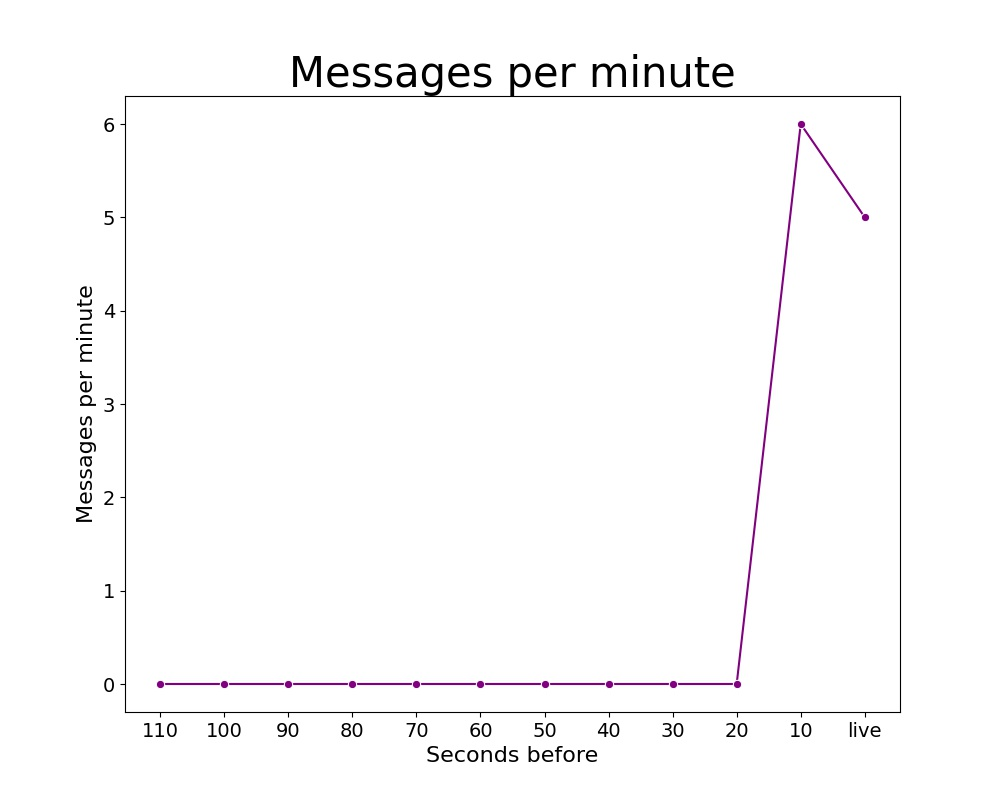
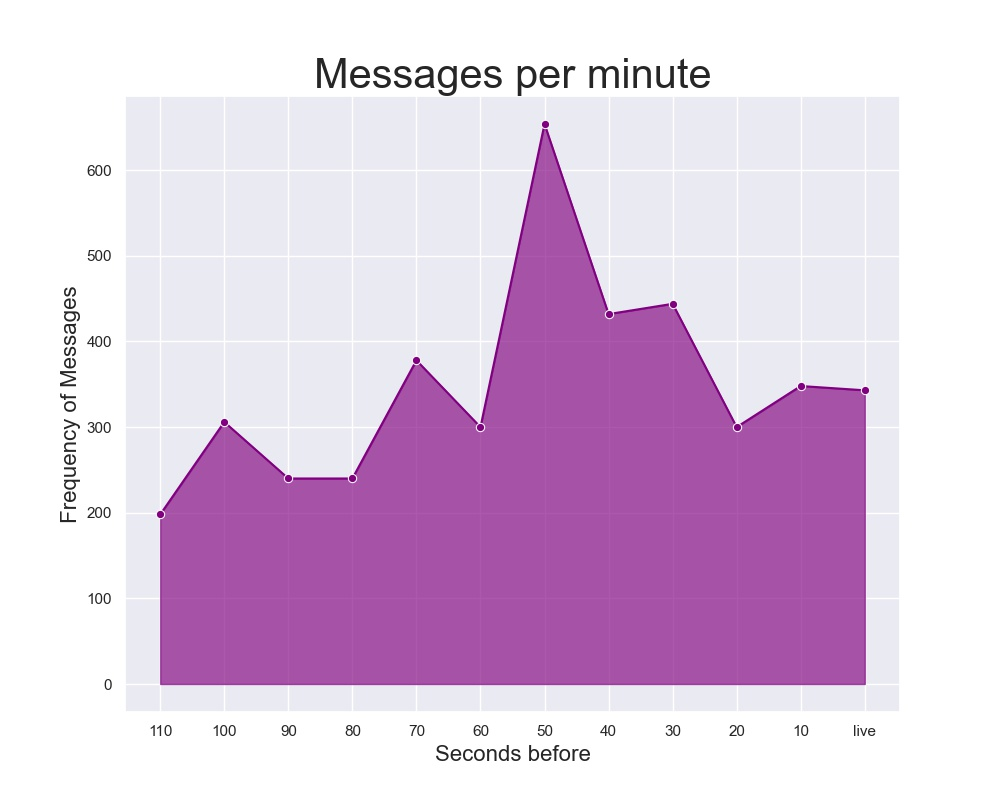
second commit, 0418

diff --git a/templates/index.html b/templates/index.html
@@ -12,36 +12,30 @@
     
   </head>
   <body>
+<div class="header-"
 
-<nav class="navbar navbar-light bg-light">
-  <div class="container-fluid">
- 
-    <a class="navbar-brand" href="#">
-      <img src="https://variety.com/wp-content/uploads/2019/09/twitch_logo.jpg" alt="" width="50" height="40" class="d-inline-block align-text-top">
-        <h2>Twitch Chat Metrics </h2>
-         <div class="inner-header">
-      
+   
+
+<div class="inner-header">
+  
+          <h2> <img src="{{url_for('static',filename = 'chitchart.jpg')}}" alt="" width="150" height="150">Twitch Chat Metrics </h2>
          
       </div>
-    </a>
-  </div>
-   
-</nav>
 
+</div>
+      <div class="container">
 
-
-	
-
-         <img src="{{url_for('static',filename = 'animal.jpg')}}" align="middle" height = "600" width="600" id = "myImage" />
-          
+        <img src="{{url_for('static',filename = 'animal2.jpg')}}"  height = "570" width="600" id = "myImage1" />
+        <img src="{{url_for('static',filename = 'animal.jpg')}}" height = "570" width="600" id = "myImage" />
+        </div>
   
 
 <form id="my_form" method="POST">
-<div class="container">
+<div class="container1">
   <div class="vertical-center">
-<button name="Refresh" class="btn btn-outline-primary waves-effect" type="submit" onclick="submitform()">Refresh</button>
 
-</span>
+<button name="Refresh" class="btn btn-success" type="submit" onclick="submitform()">Refresh</button>
+
 </div>
 </div>
 

diff --git a/static/css/style.css b/static/css/style.css
@@ -8,29 +8,43 @@
   background-color: #CCCCFF;
 }
 
-#myImage{
+#myImage,#myImage1{
   border-collapse: collapse;
-  display: block;
+  display: inline-block;
   margin-left: auto;
   margin-right: auto;
-  width: 50%;
+  width: 49%;
   max-width:80%;
   max-height:80%;
-  padding: 10px
+  padding-left: 10px;
+  padding-right:5px;
+  padding-bottom: 10px;
+} 
+
+.header-{
+  display:block;
+  padding: 5px;
+}
+
+.btn-primary{
+  background-color: #8064A2;
+  border: none;
+  display: block;
 }
 
 .inner-header{
   text-align: center;
-}
-h2{
-  text-align: center;
-
+  display: block;
 }
 
 form {
-  display: inline-block;
+  display: block;
 }
 
+
+h2{
+  display: block;
+}
 body {
   padding: 0;
   margin: 0;
@@ -38,18 +52,4 @@ body {
   text-align: center;
   background-image:url('https://encrypted-tbn0.gstatic.com/images?q=tbn:ANd9GcQGBRT9PFI5mUMFB6qZ1a8D1rOrllFd-kAPxQ&usqp=CAU')
 }
-
-
-button{
-  border: none;
-  border-radius: 15px;
-  box-shadow: 0 0 8px rgb(207, 207, 207);
-}
-
-button:hover{
-  border: none;
-  padding: 15px;
-  border-radius: 15px;
-  box-shadow: inset 0 0 8px #f9f8fc;
-  } 
 

diff --git a/static/script.js b/static/script.js
@@ -28,11 +28,20 @@ let counter = 0;
 
 
 var myImageElement = document.getElementById('myImage');
-myImageElement.src = './static/animal.jpg?rand=' + Math.random();
+myImageElement.src = '/static/animal.jpg?rand=' + Math.random();
 
 setInterval(function() {
       var myImageElement = document.getElementById('myImage');
-      myImageElement.src = './static/animal.jpg?rand=' + Math.random();
+      myImageElement.src = '/static/animal.jpg?rand=' + Math.random();
+ }, 1000);
+
+
+var myImageElement1 = document.getElementById('myImage1');
+myImageElement1.src = '/static/animal2.jpg?rand=' + Math.random();
+
+setInterval(function() {
+      var myImageElement1 = document.getElementById('myImage1');
+      myImageElement1.src = '/static/animal2.jpg?rand=' + Math.random();
  }, 1000);
 
 function submit_form(){

diff --git a/bot.py b/bot.py
@@ -14,7 +14,7 @@ from processing import Token_List,Chat_processor,Token,Tester
 from shutil import copyfile
 import os 
 nest_asyncio.apply()
-
+sns.set_theme()
 class Bot(commands.Bot):
 
     def __init__(self, refresh_flag):
@@ -25,7 +25,7 @@ class Bot(commands.Bot):
         self.nlp_processor = Chat_processor()
         self.mode = 1
         self.last_time_graph = time.time()
-        super().__init__(token='chd088egdk7ocqx4rbqs9ux367gckw', prefix='?', initial_channels=['bananashooter07'])
+        super().__init__(token='chd088egdk7ocqx4rbqs9ux367gckw', prefix='?', initial_channels=['NRG_Hamlinz','39daph','QuackityToo'])
         self.refresh_flag = refresh_flag
 
     async def event_ready(self):
@@ -47,6 +47,7 @@ class Bot(commands.Bot):
 
         # we need to process the message first before dictionary
         # remember to add rstrip and lstrip
+        print("in event_message")
         self.nlp_processor.process_string(message.content,message.author.name)
         
         
@@ -74,7 +75,7 @@ class Bot(commands.Bot):
             y_axis.append(i[1])
         plt.figure(figsize=(10,8))
         plt.title("Word Frequency",fontsize=30)
-        ax = sns.barplot(x = x_axis, y = y_axis,palette=("Purples_r"))
+        ax = sns.barplot(x = x_axis, y = y_axis,palette=("plasma"))
         ax.set_xlabel('Words', fontsize=16)
         ax.set_ylabel('Frequency', fontsize=16)
         plt.rcParams['font.size'] = '18'
@@ -89,12 +90,15 @@ class Bot(commands.Bot):
             print(inputs)
             x_axis = ['110','100','90','80','70','60','50','40','30','20','10','live']
             y_axis = inputs
+            x = [1,2,3,4,5,6,7,8,9,10,11,12]
+            plt.xticks(x, x_axis)
             plt.rcParams['font.size'] = '14'
             plt.figure(figsize=(10,8))
             plt.title("Messages per minute",fontsize = 30)
             ax = sns.lineplot(x = x_axis, y = y_axis,marker='o',color='purple')
             ax.set_xlabel('Seconds before', fontsize=16)
-            ax.set_ylabel('Messages per minute', fontsize=16)
+            ax.set_ylabel('Frequency of Messages', fontsize=16)
+            plt.fill_between(x = x_axis,y1 = y_axis,color = 'purple',alpha=0.65)
             plt.savefig(r'./static/animal2.jpg')
             print('lineplot was printed')
 

diff --git a/ui.py b/ui.py
@@ -41,22 +41,22 @@ def home():
     else:
         return render_template("index.html")
 
-@app.route("/something")
-def enter():
-    # global bot_flag
-    # if bot_flag == 0:
-    #     global r_flag
-    #     refresh_flag = Value('i', 0)
-    #     print("refresh_flag type:", type(refresh_flag))
-    #     r_flag = refresh_flag
-    #     print("main start")
-    #     p1 = Process(target=func2, args=[refresh_flag])
-    #     p1.start()
-    #     bot_flag = 1
-    return redirect(url_for("home"))
-    # p1.join()
-    # print("main end")
-    # return redirect(url_for("home"))
+# @app.route("/something")
+# def enter():
+#     # global bot_flag
+#     # if bot_flag == 0:
+#     #     global r_flag
+#     #     refresh_flag = Value('i', 0)
+#     #     print("refresh_flag type:", type(refresh_flag))
+#     #     r_flag = refresh_flag
+#     #     print("main start")
+#     #     p1 = Process(target=func2, args=[refresh_flag])
+#     #     p1.start()
+#     #     bot_flag = 1
+#     return redirect(url_for("home"))
+#     # p1.join()
+#     # print("main end")
+#     # return redirect(url_for("home"))
 
 def func2(refresh_flag):
     ourBot = bot.Bot(refresh_flag)

diff --git a/processing.py b/processing.py
@@ -73,9 +73,9 @@ class Token:
         self.next, self.prev = next, prev
 
 class Chat_processor:
-    def __init__(self, maxToken=10, manageDuplicateUsers=True, manageDuplicateWords=False):
+    def __init__(self, maxToken=10, manageDuplicateUsers=False, manageDuplicateWords=True):
         self.stop_words = set(stopwords.words('english'))
-        more_stop = {',', '.'}
+        more_stop = {',', '.', '!', '?', '(', ')', ':', ';', '~', '@', '*', '%', '$', '#', '+', '-'}
         self.stop_words = self.stop_words.union(more_stop)
         self.fdist = FreqDist()
         self.stemmer = SnowballStemmer("english")
